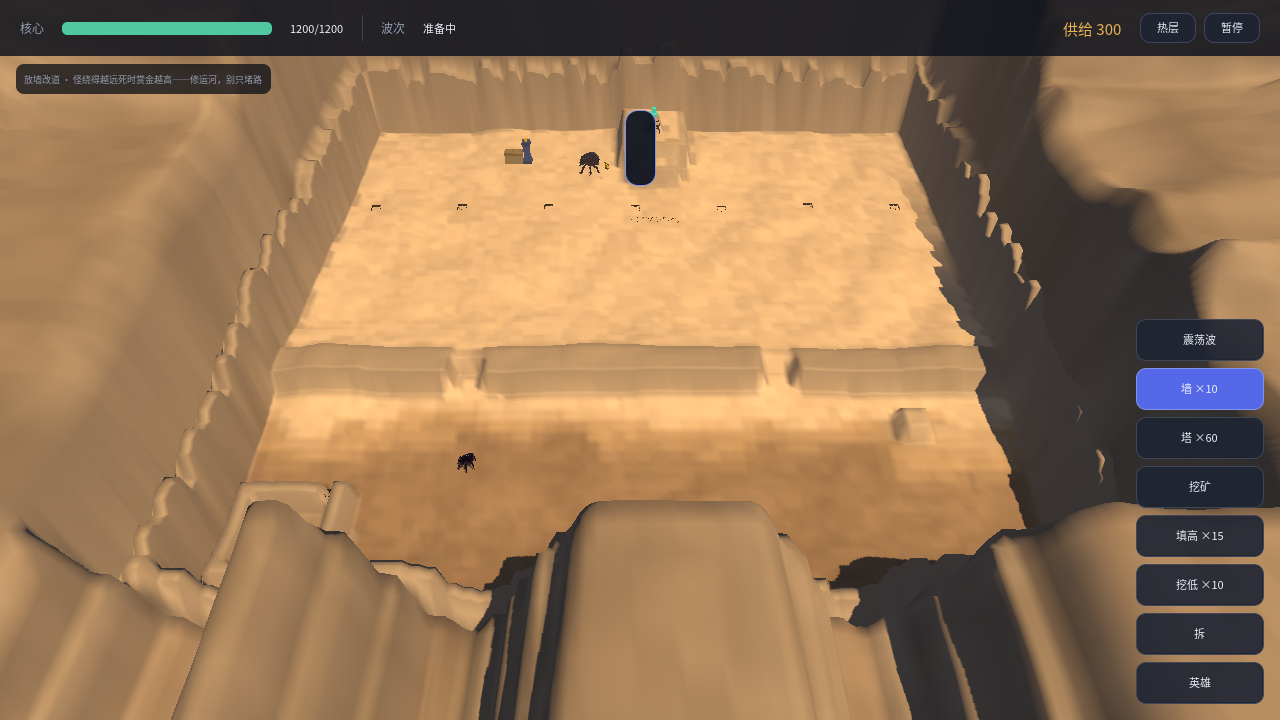
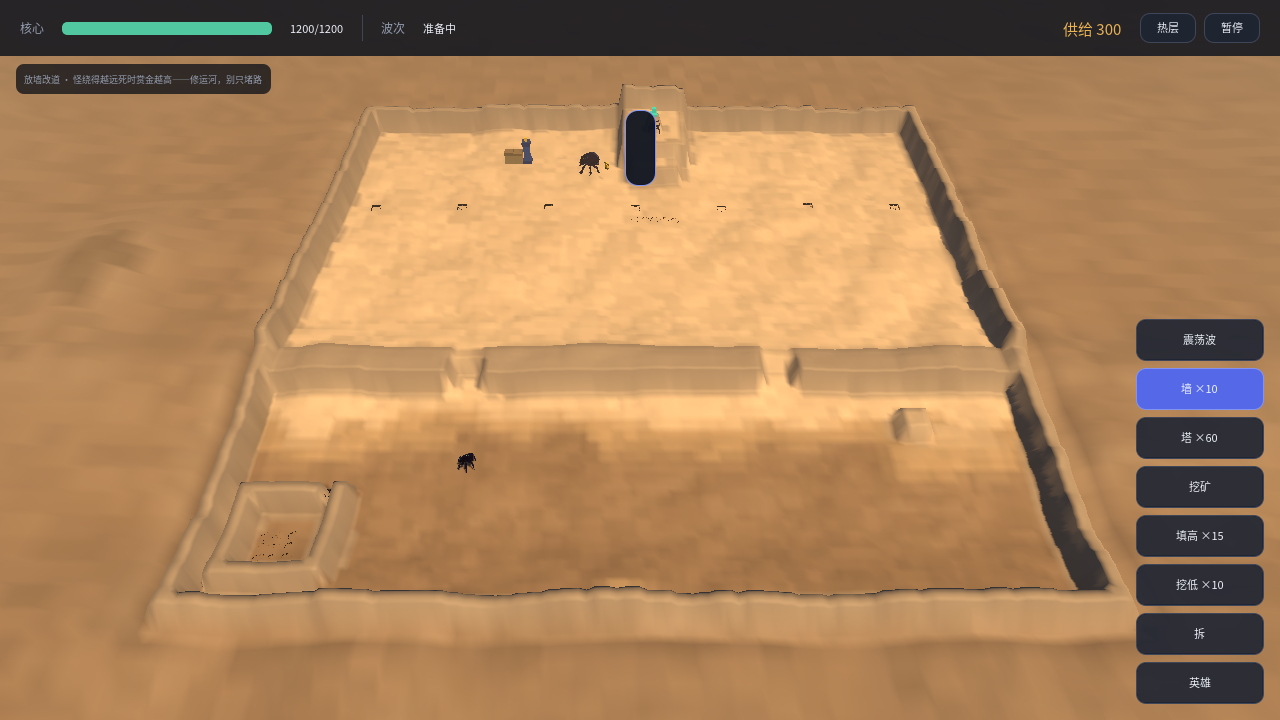
视觉推翻重做：环崖/台地原格局废弃 → 开阔荒漠（头图口径）
- 用户裁定场界四周不应该是墙：RIM_BUMP 5.0→0.8 矮石墙（≈2.2m，保留周向起伏与南豁口）
- 蓝图场外重写：rim_h 1.1~1.7 低沿埂 + 浅干河 1.0m + 8 座离散孤岩长丘（斜率限幅，连续性闸内）+ 远方 7~8m 低剪影；取消北屏风与 4.5m 台阶量化
- 全 19 探针 + 104 单测 + selfcheck 复绿；check_shots 25/0 warm=1016312
- 双端包重出：Windows 复签 Valid + pck 自证 22/0；Android 282.9MB apksigner CN=Reroute
- shots/store 实机五图目视换新

diff --git a/docs/UI-REDESIGN-20261017.md b/docs/UI-REDESIGN-20261017.md
@@ -1,0 +1,111 @@
+# UI/UX 改版设计稿（2026-10-17）
+
+> 状态：**待用户拍板**。本文只提设计，未动任何 `game/` 代码。
+> 批准后按 §5 实施顺序执行；批准时请指出要调整的条目。
+> 范围：B（题材化换色+质感）+ C（布局重排，限 §4 标明区）。
+
+---
+
+## 1. 逐屏评审（现状问题）
+
+来自 `shots/` 8 张实机截图（2026-10-16 mapgen 版）：
+
+| 屏 | 问题 |
+|---|---|
+| title | 全屏均匀灰遮罩（150α）把战场压成一片灰；标题两字裸排无层次；五按钮同宽同灰，主按钮是唯一兴奋点；tips 弹出即挤进按钮列 |
+| game | 顶栏信息裸排：血条/波次/供给/热层/暂停无分组；血条单一绿块无底衬无刻度；右侧 8 钮一列全同款，选中态仅底色差异 |
+| heat | 热层色块本身清楚，但顶栏按钮与模式列同为 issues 同上 |
+| slots | 与暂停/设置共用同一张灰卡；槽位"空/可读/损坏"仅靠文字区分；删除钮小 |
+| settings | 同一张灰卡；滑杆、开关、标签裸排无对齐网格 |
+| gameover | 胜负仅标题换色；统计行小、无层级；胜负卡完全同构，情绪弱 |
+| pause | 同灰卡 |
+| narrow / 20:9 | 结构正常（D1-5 已过），本次改版保持该约束 |
+
+全局：卡片 = flat 圆角 + 1px 边框；按钮 = 三态仅提亮；无投影、无装饰、无 hover 位移——"程序员风"。
+
+## 2. 设计原则
+
+1. **题材叙事**：沙漠沙 + 运河水。交互主色 = 运河青绿（你造的是水路），经济色 = 琥珀金（供给/赏金），危险红、警戒黄保留。
+2. **一次一刀**：改样式 + 标明区布局；探针锁死区只做"不破语义"的强化（见 §4）。
+3. **触屏优先**：不缩小任何已过 36px 触达矩阵的控件；放大密度靠对比与分组，不靠缩。
+
+## 3. 设计 Token（v2 色板）
+
+### 3.1 `hud.DARK` 色板语义映射（key 不动，数值换）
+
+| key | v1（现） | v2 | 语义 |
+|---|---|---|---|
+| `bar` | 0F131DD8 | **14100C D8** `Color8(20,16,12,216)` | 顶栏深沙夜 |
+| `card` | 121722F4 | **1C1610 F6** `Color8(28,22,16,246)` | 卡片暖深棕 |
+| `text` | EBEFF7FF | **F4ECDC FF** `Color8(244,236,220,255)` | 暖白 |
+| `muted` | 94AEB0FF | **B2A186 FF** `Color8(178,161,134,255)` | 暖灰 |
+| `hp`（胜/核心青） | 52C8A0FF | **40C8B0 FF** `Color8(64,200,176,255)` | 运河水青 |
+| `supply`（金） | E2B254FF | **E8B45A FF** `Color8(232,180,90,255)` | 琥珀金（保留） |
+| `danger` | E26054FF | **E45C48 FF** `Color8(228,92,72,255)` | 危险红（保留） |
+| `border` | 3E4658FF | **5C4828 FF** `Color8(92,72,40,255)` | 沙岩暖边 |
+| `active`（选中底） | 5569E8 | **26988A** `Color8(38,152,138,255)` | 运河青绿 |
+| `active_border` | 8294F0 | **7ADAC4** `Color8(122,218,196,255)` | 选中亮边 |
+| `btn` | 1E2432E6 | **261A10 E8** `Color8(38,26,16,232)` | 暖暗钮底 |
+| `btn_hover` | 2C3448E6 | **38291A F0** `Color8(56,41,26,240)` | hover 提亮 |
+| `btn_pressed` | 38425CE6 | **18100A FA** `Color8(24,16,10,250)` | pressed 压暗 |
+
+> 探针核对：`probe_hud._check_btn_color` 与 `probe_ui_flow` 胜负标题色均为**动态取 `DARK[key]`**，换数值安全；浮字 α 算式绑 `FLOAT_LIFE` 不动。
+
+### 3.2 新增 token（不改探针，纯新增常量）
+
+| token | 值 | 用途 |
+|---|---|---|
+| `shadow` | `Color8(0,0,0,70)` | 卡片投影（StyleBoxFlat.shadow_size=10*S, offset y=4） |
+| `edge_hi` | `Color8(255,244,214,38)` | 卡片顶缘高光线/按钮顶缘 |
+| `edge_lo` | 主色 ×0.55 | 按钮底缘"厚度"（border_width_bottom） |
+| `track` | `Color8(10,8,5,220)` | 血条底槽 |
+| `warn` | `Color8(180,96,44,255)` | 血条 <30% / 波次警戒 |
+
+### 3.3 组件规格
+
+- **卡片**：圆角 14、border `border` 1px、顶缘 `edge_hi` 1px（border_width_top=1 用亮色 → 双描边）；shadow_size 10*S + shadow_offset(0,4*S)。
+- **按钮三态**：normal（btn + edge_lo 底缘 3px）；hover（btn_hover + 上浮变暗=-1px 调 border）；pressed（btn_pressed + 底缘 1px=按下沉）。主按钮同规格换 `active` 底 + `active_border` 边。
+- **字阶**（S 缩放同现有）：标题屏大标 54/S + 字距 8；副标 14；卡片题 20；按钮 12–14；正文 11；注释 9。
+- **分隔线**：`Color8(92,72,40,120)` 高 1px，宽 220*S。
+
+## 4. 布局重排（C 部分）与探针锁死表
+
+### 4.1 可动区
+
+- **标题屏**：遮罩改渐变 TextureRect（GradientTexture2D：顶部 60α → 底部 190α，保留战场看点）；标题块 = 大标 + 金分隔线 + 副标；按钮列对比节奏（主钮 48h/14 字、次钮 40h/12 字已如此，加 hover 态与宽度统一 240）；footer 移到底缘贴边。
+- **顶栏**：分组重排——左组（核心血条+数值）｜中组（波次）｜右组（供给金值大字 + 热层 + 暂停钮组）。用底槽色块分格。
+- **血条**：`track` 底槽 + 1px `border` + 主填充 hp 色 + 3 条竖刻度线（25/50/75%）；数值右侧带阴影字。
+- **模式列**：选中钮加 `active_border` 亮边 + 文字转白加粗视觉（底色机制不变）；未选中文字用 `muted`。
+- **结算**：胜卡标题下水青 + 卡边随胜负换色（胜 `hp`/败 `danger` 顶缘）；统计行改"键 muted / 值 text"两段式，标题下加分隔线。
+- **存档**：槽位钮文字色按状态分层（有效=text、空=muted、损坏=warn 暗红）；删除钮高度对齐 36。
+- **暂停/设置**：统一卡片规格；设置滑杆列改左标签右值的稳定网格。
+
+### 4.2 锁死区（动 = 连带改探针 + 负对照）
+
+| 锁死物 | 锁死者 |
+|---|---|
+| `BTN_H=42 / COL_W=128 / CORNER_*` 几何、`hit_regions()` 语义 | `probe_hud` 布局断言、`probe_touch` 22 钮 ≥36px 矩阵、main 点击排除 |
+| `set_mode` 机制：normal stylebox bg == `DARK[active]/[btn]` + `sb_normal` 存 meta | `probe_hud._check_btn_color` |
+| `FLOAT_LIFE=18` / 浮字 α 算式 | `probe_hud` 浮字断言 |
+| 控件名全集（`btn_slot%d`、`btn_confirm_ok`…） | `probe_ui_flow`、`probe_touch`、`probe_save`、`main` |
+| `hud.safe` 四元组与 `_layout()` 重算 S | `probe_hud` 安全区/缩放断言（D5-4） |
+| 五屏页流转 API（`open_title/open_pause/...`） | `probe_ui_flow`、`main` |
+
+> 本稿布局重排**不触碰锁死区**：顶栏重排在 `TOP_H` 56/`TOP_STRIP_H` 64 与既有控件位置语义内调整分组视觉，不删改几何常量。若实施中发现必须破某条，升级回用户裁决。
+
+## 5. 实施顺序（批准后）
+
+1. `screens.gd`：token + 样式工厂（卡片/按钮三态/分隔线）→ 五屏 + 确认弹窗改版（一提交）
+2. `hud.gd`：顶栏分组 + 血条重设计 + 模式列激活强化 + 横幅/提示样式（一提交；`FLOAT_LIFE/BANNER_LIFE` 等逻辑量不动）
+3. 复跑全 21 闸 + `check_shots.py`；重出 `shots/` 目视件；窄屏/20:9 复查
+4. 决策记录入 `DEVELOPMENT-PLAN.md` 新 §11 节
+5. 风险预案：若闸跑不平或时间超 10-18 午，回退 C 保留 B（换色+质感，零断言风险）保上传
+
+## 6. 效果图
+
+AI 改图 mockup（基于实机截图重绘，仅供拍板，非最终渲染）：
+
+- `docs/mockups/title_v2.png` — 标题屏
+- `docs/mockups/game_v2.png` — 对局 HUD
+- `docs/mockups/gameover_v2.png` — 结算（胜卡）
+- `docs/mockups/settings_v2.png` — 设置（代表通用卡片）

diff --git a/docs/DEVELOPMENT-PLAN.md b/docs/DEVELOPMENT-PLAN.md
@@ -1815,6 +1815,20 @@ Android `reroute-release.apk` 仍为 D2-1 版、不含本次变更——**D4 提
 `probe_save` 曾误用 headless 运行挂起报错——save/orient 等窗口探针必须窗口模式（§2.1）。
 剧本指纹 0x7dea2b02 不变（纯视觉改动）。
 
+**峡谷化推翻（用户裁定「四周不应该是墙」，拍板按头图改）**：本节前段「环崖 + 台地
+层理 + 北屏风」整格局废弃——正确形态 = **开阔荒漠**：场界改成头图式矮石墙
+（`RIM_BUMP` 5.0→0.8，总高 ≈2.2m，保留周向起伏与南豁口 `_rim_scale`/`_gates`）；
+蓝图场外重写：环崖 rim_h 18m 级→1.1~1.7m 低沿埂（去台阶量化/去crest直墙/去北屏风
+rim_north），干冲沟 2.2→1.0m 浅干河，台地原（fbm 阈值）→**8 座离散孤岩长丘**
+（种子定圆环散布 r16~42m/半径 9~19m/高 0.55~1.15×mesa 6.5~10.5m；skirt=max(0.8r,
+h/0.42) 斜率限幅→任一采样行相邻高差 ≤~1.5m，`probe_scene` 连续性不破），远山剪影
+52m 级→7~8m 低剪影（fog_start 58+，只做朦胧地平线）。沙丘/色板/雾/暖阳全保留。
+三预设 canyon/shale/ember 同步（canyon: rim 1.4/mesa 9·12·14/sky 7·64/und 2.6·0.036）。
+`probe_scene` PASS、check_shots 25/0 复绿（warm=1016312）、全 19 闸 + 104 单测 +
+selfcheck 复绿；**双端包重出**：`game.exe` 109,550,080B + `game.pck` 80,587,824B
+（复签 Valid + pck 自证 22/0）+ `reroute-release.apk` 282,902,492B（apksigner
+CN=Reroute SHA-256 06fb8144… 一致）。`shots/store/` 实机五图已换新景并逐一目视。
+
 ---
 
 ## 12. AI 任务卡模板（派活时照抄）
